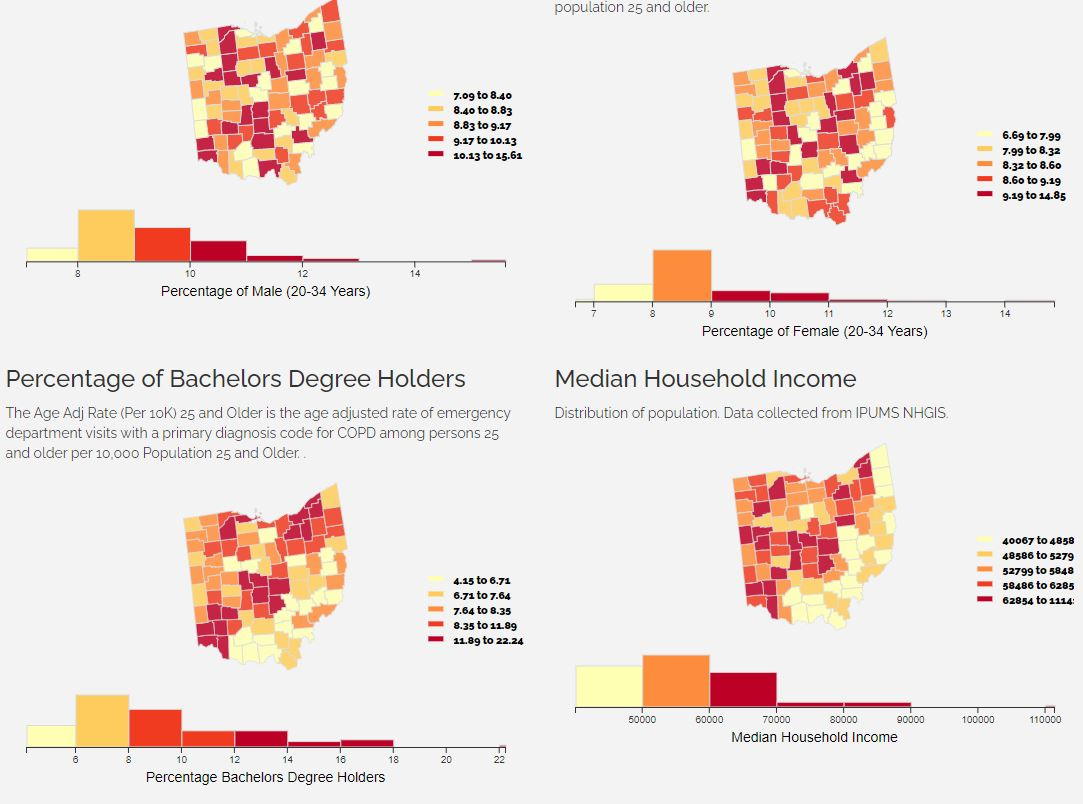
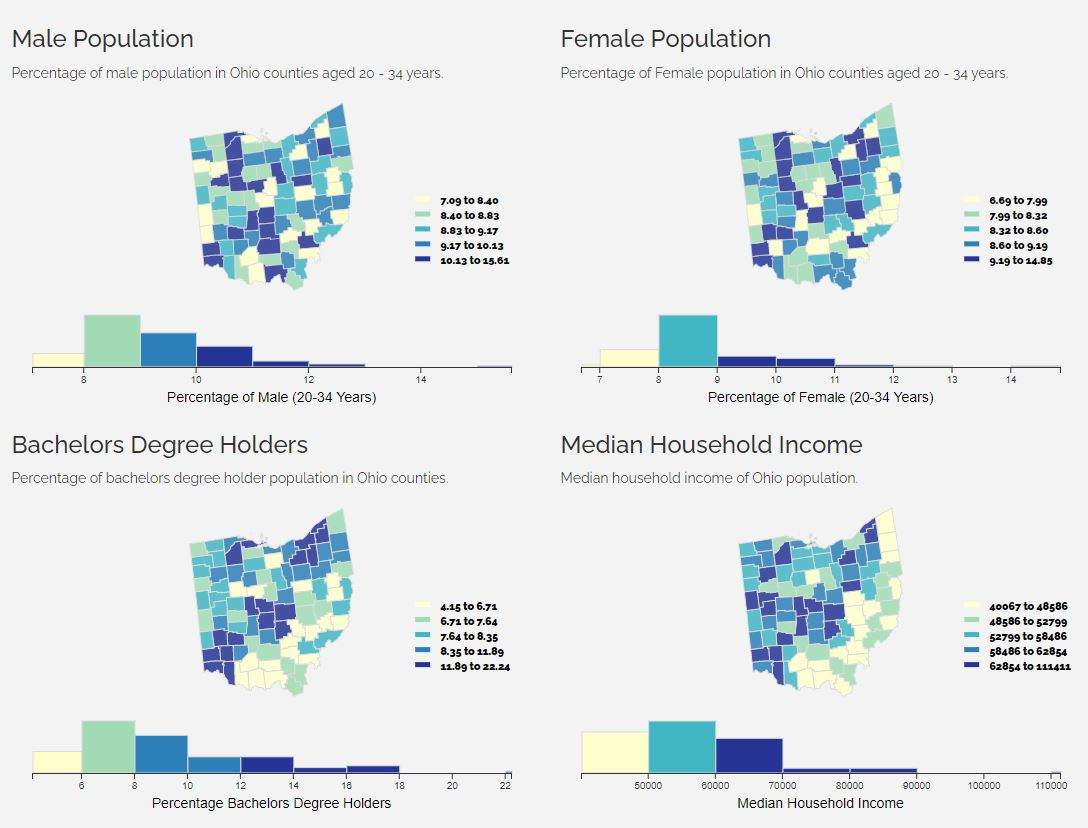
Multiple choropleth map updated

diff --git a/MultipleChoro/index.html b/MultipleChoro/index.html
@@ -53,12 +53,12 @@
 	<div class="container">
 		<div class="content">
 			<div class="row">
-					<h1>Contributions of Young Population (Male and Female) of OH in Median Household Income</h1><p>Respiratory diseases, including Chronic Obstructive Pulmonary Disease (COPD) are among the nation’s most common and costly chronic conditions. COPD refers to a group of diseases that cause airflow blockage and breathing-related problems. They can affect the airways and lungs and can cause symptoms such as wheezing, shortness of breath, coughing, fatigue or inability to exercise, and tightness in the chest. The most common conditions include emphysema and chronic bronchitis, and some cases of asthma.</p>
+					<h1>Contributions of Young Population (Male and Female) of OH in Median Household Income</h1><p>This map shows the relationship between the rate of bachelors degree among the young population in Ohio counties and median household income. It also provides a comparative scenario between male and feamle population with the variables.</p>
 			</div>
 			<hr />
 			<div class="row">
 				<div class="col-sm-4">
-					<p>Data from <a href="https://tracking.idph.iowa.gov/Health/COPD/COPD-ED-Visits-Data">iowa.gov</a>, maps by A H M Mainul Islam.</p>
+					<p>Data from <a href="https://www.nhgis.org/">NHGIS IPUMS</a>, maps by A H M Mainul Islam.</p>
 				</div>
 				<div class='col-sm-8 mapButtons'>
 					<span class="pull-right">
@@ -82,12 +82,12 @@
 			<br />
 			<div class="row">
 				<div class="col-sm-6">
-					<span><p><h3 class='mapTitle'>Percentage of Male Population in OH (20-34) years old</h3>Number of emergency department visits normalized by county population. </p></span>
+					<span><p><h3 class='mapTitle'>Male Population</h3>Percentage of male population in Ohio counties aged 20 - 34 years. </p></span>
 					<div id="divMap1"></div>
 					<div id="divHist1"></div>
 				</div>
 				<div class="col-sm-6">
-					<h3 class='mapTitle'>Percentage of Male Population in OH (20-34) years old</h3><p>The crude rate (per 10K) 25 and Older is the rate of emergency department visits with a primary diagnosis code for COPD among persons 25 and older per 10,000 population 25 and older.</p>
+					<h3 class='mapTitle'>Female Population</h3><p>Percentage of Female population in Ohio counties aged 20 - 34 years.</p>
 					<div id="divMap2"></div>
 					<div id="divHist2"></div>
 				</div>
@@ -95,12 +95,12 @@
 
 			<div class="row">
 				<div class="col-sm-6">
-					<h3 class='mapTitle'>Percentage of Bachelors Degree Holders</h3><p>The Age Adj Rate (Per 10K) 25 and Older is the age adjusted rate of emergency department visits with a primary diagnosis code for COPD among persons 25 and older per 10,000 Population 25 and Older. .</p>
+					<h3 class='mapTitle'>Bachelors Degree Holders</h3><p>Percentage of bachelors degree holder population in Ohio counties.</p>
 					<div id="divMap3"></div>
 					<div id="divHist3"></div>
 				</div>
 				<div class="col-sm-6">
-					<h3 class='mapTitle'>Median Household Income</h3><p>Distribution of population. Data collected from IPUMS NHGIS.</p>
+					<h3 class='mapTitle'>Median Household Income</h3><p>Median household income of Ohio population. </p>
 					<div id="divMap4"></div>
 					<div id="divHist4"></div>
 				</div>
@@ -124,13 +124,13 @@
 	// 0 is the start, whereas 1 i the end of each panel.
 	// If you want to put the legend on the left, then use 0.
 	// legendY = 0.5 puts the legend in the middle of the Y Axis.
-	var legendX = 0.84, legendY = 0.5
+	var legendX = 0.80, legendY = 0.5
 
 	// id attribute and the name attribute to be used in the tooltip
 	var idAttribute = 'COUNTYFP', nameAttribute = 'NAME';
 
 	// Find the abbreviations of color names from https://colorbrewer2.org/
-	var colors =  colorbrewer.YlOrRd;
+	var colors =  colorbrewer.YlGnBu;
 
 	// Chart/map attributes (variables) and formats based on the divs defined above
 	// For attribute 1 (the same for all others), see the description of the parameters below.
